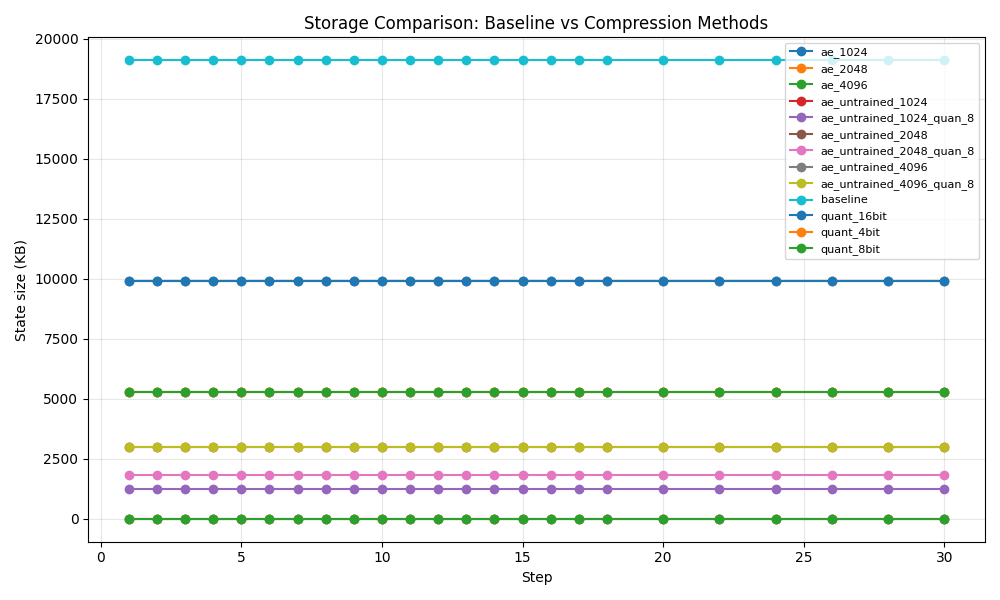
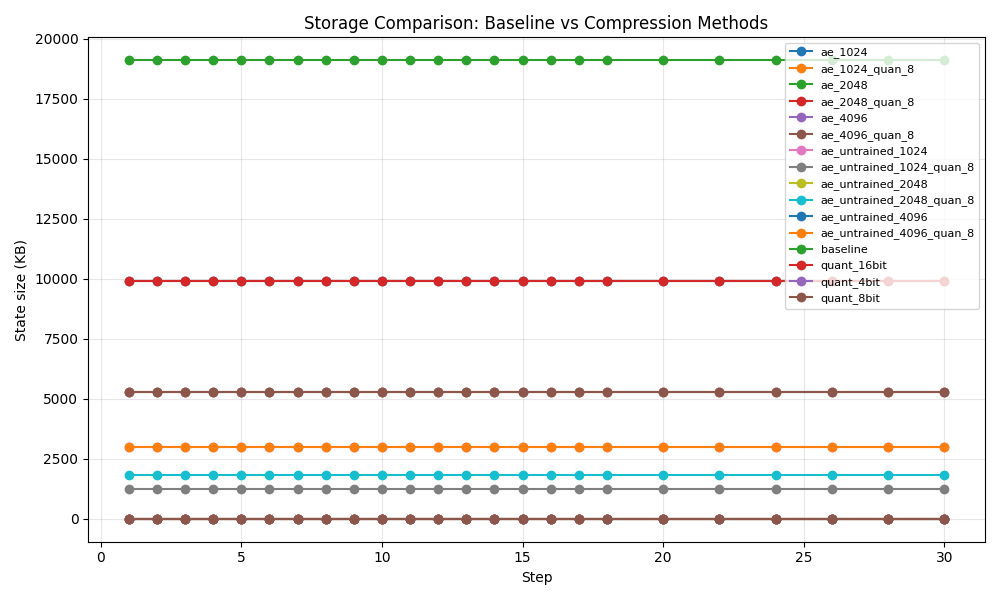
run exp2 with trained autoencoder

diff --git a/src/experiment2.py b/src/experiment2.py
@@ -440,6 +440,28 @@ def run_experiment_2_session(
         print(f"{'='*50}")
         torch.cuda.empty_cache()
 
+    # trained + quantization int 8 bit
+    if ae_experiments:
+        for latent_dim, ae_list in ae_experiments.items():
+            print(f"\n{'='*50}")
+            print(f"Session {session_id}: running trained AE latent_dim={latent_dim} + quantization 8 bit")
+            print(f"{'='*50}")
+
+            compress_dir = f"{output_dir}/state_compressed_ae_{latent_dim}_quan_8.pt"
+
+            ae_results = utils.run_with_cache(
+                output_dir, f"ae_{latent_dim}_quan_8", session_id, f"ae_{latent_dim}_quan_8" in force_rerun,
+                lambda: run_autoencoder_quantization(
+                    model, tokenizer, snapshots, device, compress_dir, ae_list, 8
+                )
+            )
+
+            session_results[f"ae_{latent_dim}_quan_8"] = build_turn_dict(ae_results)
+
+            print(f"Session {session_id}: finished trained AE latent_dim={latent_dim} + quantization 8 bit")
+            print(f"{'='*50}")
+            torch.cuda.empty_cache()
+
     # untrained + quantization int 8 bit
     if ae_untrained_experiments:
         for latent_dim, ae_list in ae_untrained_experiments.items():

diff --git a/src/experiment1.py b/src/experiment1.py
@@ -42,7 +42,7 @@ def run_baseline_session(model, tokenizer, snapshots, device,
 
         _, latency, ppl = evaluate_baseline(
             model, tokenizer,
-            history_text=truncated_history_text,
+            history_text=truncated_text,
             input_text=new_text,
             device=device,
         )
